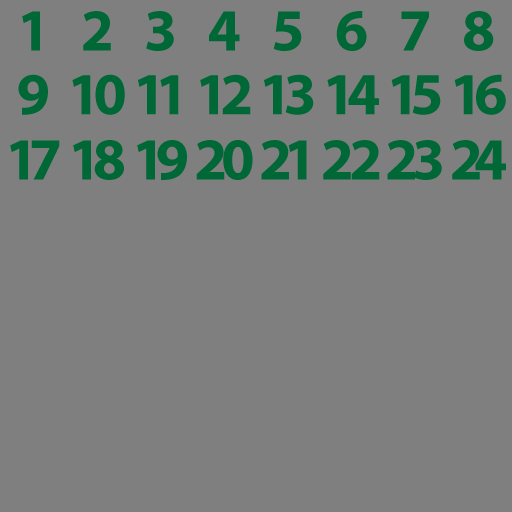
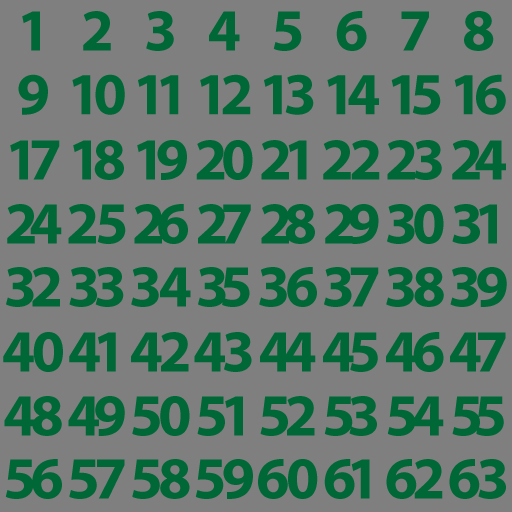
Update Tile image, move some variables to GameConfig.

Changed region(s): [[0.0, 0.375, 1.0, 1.0]]

diff --git a/MatchTwo/MTGame.m b/MatchTwo/MTGame.m
@@ -19,12 +19,6 @@
 
 @implementation MTGame
 
-#define DefaultcolumnNumber 10
-#define DefaultRowNumber 10
-#define DefaultGameTime 10.0f
-#define DefaultTypeNumber 9
-
-
 - (id)initWithLevelID:(int)theLevelID{
     self = [super init];
     if (self){
@@ -57,8 +51,8 @@
     [self addChild:background];
     
     
-    board = [[MTBoard alloc]initWithRowNumber:DefaultRowNumber 
-                              andColumnNumber:DefaultcolumnNumber];
+    board = [[MTBoard alloc]initWithRowNumber:kMTDefaultRowNumber 
+                              andColumnNumber:kMTDefaultColumnNumber];
     [board autorelease];
     board.game = self;
     [self addChild:board];

diff --git a/MatchTwo/MTSharedManager.m b/MatchTwo/MTSharedManager.m
@@ -63,7 +63,7 @@ static MTSharedManager * _instance = nil;
 
 - (NSDictionary *)settingsForLevelID:(int)LevelID{
     NSMutableDictionary * dic = [NSMutableDictionary dictionaryWithCapacity:3];
-    [dic setObject:[NSNumber numberWithFloat:10.0] forKey:@"initialTime"];
+    [dic setObject:[NSNumber numberWithFloat:kMTDefaultGameTime] forKey:@"initialTime"];
     [dic setObject:[NSNumber numberWithInt:9 + (LevelID % 100 - 1) * 2] forKey:@"numberOfTypes"];    
     return dic;
 }

diff --git a/MatchTwo/GameConfig.h b/MatchTwo/GameConfig.h
@@ -44,6 +44,13 @@
 #endif // __GAME_CONFIG_H
 
 // Match Two Specific Settings
+
+
+#define kMTDefaultColumnNumber 10
+#define kMTDefaultRowNumber 10
+#define kMTDefaultGameTime 200.0f
+#define kMTDefaultTypeNumber 9
+
 #define kMTPieceSize 64.0f
 #define kMTPieceMargin 4.0f
 #define kMTPieceScaleTime 0.2f
